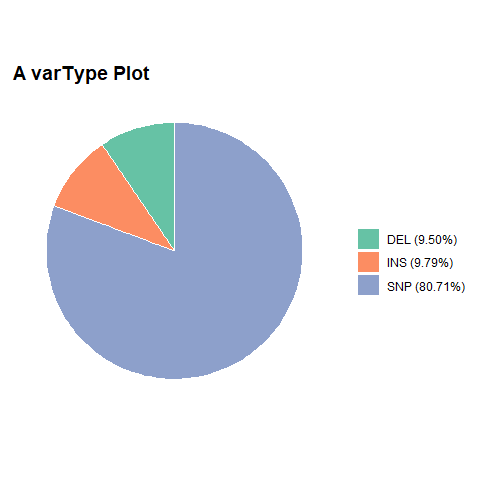
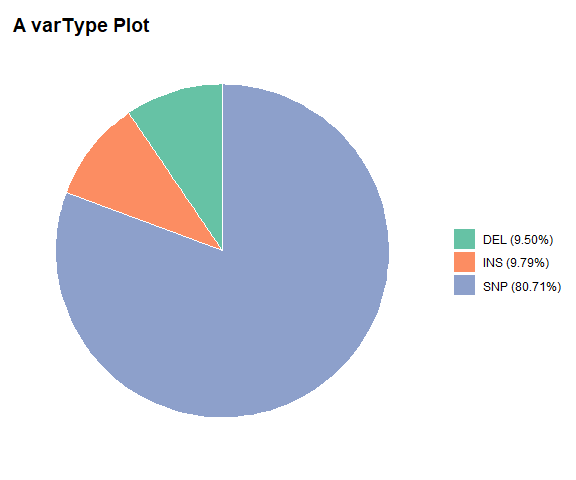
adjust show pic size

diff --git a/README.md b/README.md
@@ -1,12 +1,5 @@
 <!-- README.md is generated from README.Rmd. Please edit that file -->
-``` r
-knitr::opts_chunk$set(
-  collapse = TRUE,
-  comment = "#>",
-  fig.path = "show/README-",
-  warning = FALSE
-)
-```
+
 
 omplotr: 'ggplot2' Based RNAseq Plot Function Collection
 ========================================================
